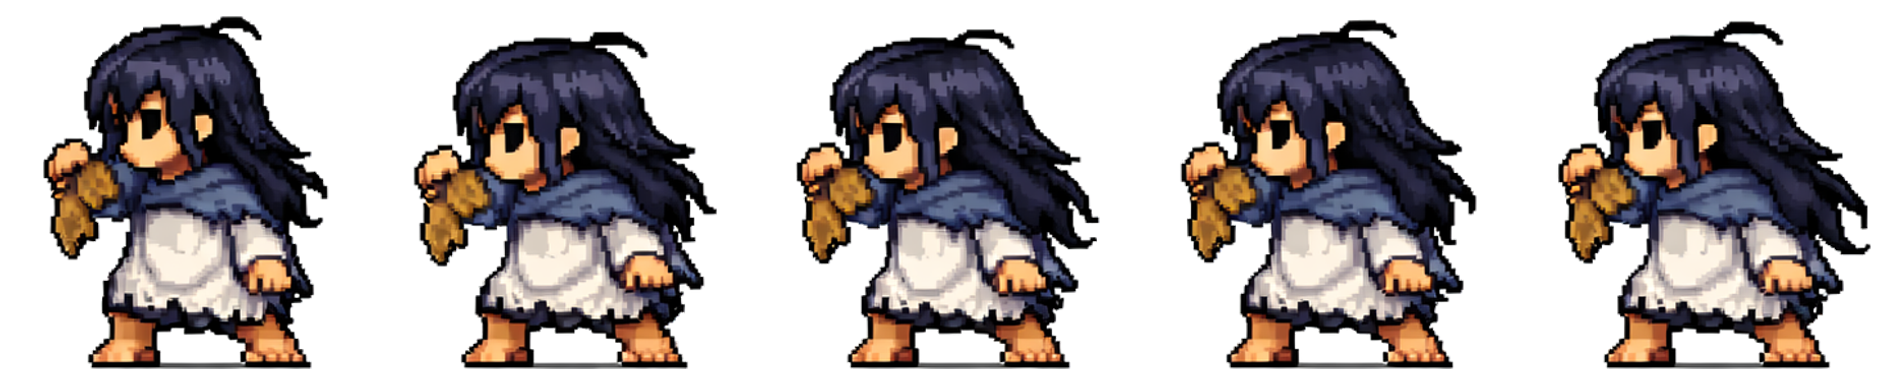
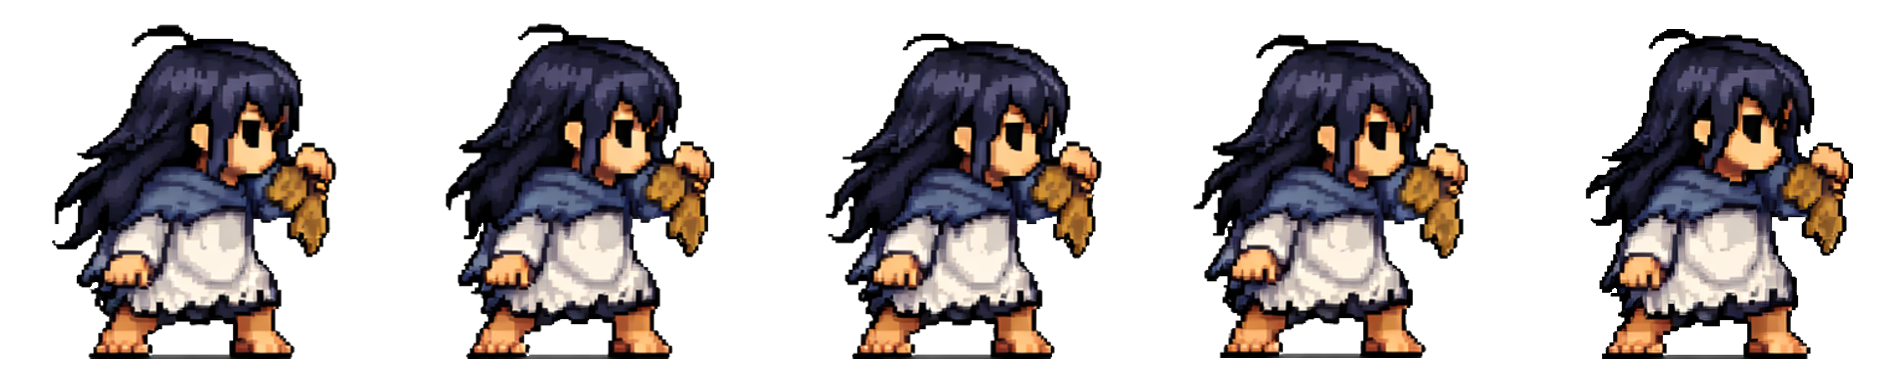
new anims scale fixes

diff --git a/src/battle/components/BattleCharacter.js b/src/battle/components/BattleCharacter.js
@@ -51,10 +51,6 @@ function BattleSprite(props) {
     var PUB = process.env.PUBLIC_URL || "";
     var src = PUB + cfg.sheet;
     var size = LAYOUT.spriteSize;
-    var xform = [];
-    if (cfg.flipX) xform.push("scaleX(-1)");
-    if (cfg.scale && cfg.scale !== 1) xform.push("scale(" + cfg.scale + ")");
-    var transform = xform.length ? xform.join(" ") : undefined;
 
     // Static image (single frame only)
     if (cfg.frames <= 1) {
@@ -66,7 +62,6 @@ function BattleSprite(props) {
                 backgroundRepeat: "no-repeat",
                 backgroundPosition: "center",
                 imageRendering: "auto",
-                transform: transform,
             }} />
         );
     }
@@ -89,7 +84,6 @@ function BattleSprite(props) {
             backgroundRepeat: "no-repeat",
             backgroundSize: (cols * 100) + "% " + (totalRows * 100) + "%",
             imageRendering: "auto",
-            transform: transform,
         }} />
     );
 }
@@ -281,7 +275,16 @@ function BattleCharacter(props) {
         prevTurnOwnerRef.current = showTurnOwner;
     }, [showTurnOwner]);
 
+    var isKO = c.ko || (c.currentHP != null && c.currentHP <= 0);
+
+    // Read anim state early — needed for KO class gating and sprite key
+    var myAnim = props.animState && props.animState[c.id];
+
     var cls = "normal-cam-char";
+    // Only apply persistent hide when choreo ko animation is NOT playing.
+    // During the death anim, choreo--ko handles the fade. After it clears,
+    // this class keeps the character hidden on subsequent re-renders.
+    if (isKO && myAnim !== "ko") cls += " normal-cam-char--ko";
     if (isParty) cls += " normal-cam-char--party";
     if (!isParty) cls += " normal-cam-char--enemy-idle";
     if (isDimmed) cls += " action-cam-char--dimmed";
@@ -331,17 +334,28 @@ function BattleCharacter(props) {
     // --- CHOREO layer: lunge/knockback/dodge transforms ---
     var choreoCls = "normal-cam-char__choreo";
     if (props.flashId === c.id) choreoCls += " normal-cam-char__choreo--flash";
-    var myAnim = props.animState && props.animState[c.id];
+    // myAnim already computed above (needed for KO class gating)
     if (myAnim) {
         choreoCls += " normal-cam-char__choreo--" + myAnim;
     }
     var choreoStyle = { "--choreo-dir": isParty ? "1" : "-1" };
 
+    // --- Scale/flip on __visual layer (not sprite — enemy bob overwrites sprite transforms) ---
+    var activeSpriteKey = (myAnim === "strike" || myAnim === "wind_up") && c.attackSpriteKey
+        ? c.attackSpriteKey : c.spriteKey;
+    var spriteCfg = BATTLE_SPRITES[activeSpriteKey];
+    var visualXform = [];
+    if (spriteCfg && spriteCfg.flipX) visualXform.push("scaleX(-1)");
+    if (spriteCfg && spriteCfg.scale && spriteCfg.scale !== 1) visualXform.push("scale(" + spriteCfg.scale + ")");
+    var visualStyle = { position: "relative" };
+    if (visualXform.length) visualStyle.transform = visualXform.join(" ");
+
     // Click handler — stopPropagation so stage background tap can deselect
     var handleClick = useCallback(function(e) {
         e.stopPropagation();
+        if (isKO) return; // Dead characters are not interactive
         if (props.onClick) props.onClick();
-    }, [props.onClick]);
+    }, [props.onClick, isKO]);
 
     return (
         <div
@@ -351,7 +365,7 @@ function BattleCharacter(props) {
             onClick={handleClick}
         >
             <div className={choreoCls} style={choreoStyle}>
-                <div className="normal-cam-char__visual" style={{ position: "relative" }}>
+                <div className="normal-cam-char__visual" style={visualStyle}>
                     <SelectionBrackets
                         spriteRef={spriteElRef}
                         color={showSelected ? "#4ade80" : "#f0e6c8"}
@@ -364,10 +378,7 @@ function BattleCharacter(props) {
                             color={isParty ? "#f0e6c8" : "#fb923c"}
                         />
                     )}
-                    <BattleSprite spriteKey={
-                        (myAnim === "strike" || myAnim === "wind_up") && c.attackSpriteKey
-                            ? c.attackSpriteKey : c.spriteKey
-                    } frame={
+                    <BattleSprite spriteKey={activeSpriteKey} frame={
                         (myAnim === "strike") && c.attackSpriteKey ? 1
                             : (myAnim === "wind_up") && c.attackSpriteKey ? 0
                                 : null

diff --git a/src/battle/BattleView.js b/src/battle/BattleView.js
@@ -605,6 +605,7 @@ function BattleView(props) {
     // ============================================================
     function handleStartBattle() {
         if (phase !== PHASES.INTRO) return;
+        BattleSFX.select();
         director.start();
     }
 
@@ -853,6 +854,7 @@ function BattleView(props) {
     }
 
     function handleChainSkillSelect(skillId) {
+        BattleSFX.select();
         // Same skill tapped again — confirm
         if (chainSelectedSkillRef.current === skillId) {
             handleChainSkillConfirm(skillId);
@@ -863,6 +865,7 @@ function BattleView(props) {
     }
 
     function handleChainSkillConfirm(skillId) {
+        BattleSFX.select();
         var sid = skillId || chainSelectedSkillRef.current;
         if (!sid) return;
         chainSelectedSkillRef.current = null;
@@ -871,6 +874,7 @@ function BattleView(props) {
     }
 
     function handleChainSkillClose() {
+        BattleSFX.select();
         setChainSkillMenuOpen(false);
         chainSelectedSkillRef.current = null;
     }
@@ -883,10 +887,12 @@ function BattleView(props) {
     // RESULTS — Continue button exits battle
     // ============================================================
     function handleResultsContinue() {
+        BattleSFX.select();
         if (onExit) onExit(battleResult);
     }
 
     function handleAction(actionId) {
+        BattleSFX.select();
         var userId = activeAtkId;
 
         if (actionId === "attack") {
@@ -928,6 +934,7 @@ function BattleView(props) {
     // resolution, then signals Director that item was used.
     // ============================================================
     function handleItemUse(itemId) {
+        BattleSFX.select();
         var userId = activeAtkId;
         if (!userId) return;
 
@@ -978,6 +985,7 @@ function BattleView(props) {
     }
 
     function handleItemClose() {
+        BattleSFX.select();
         setItemMenuOpen(false);
         // Signal Director — item cancelled
         director.onPlayerItemUsed(false);
@@ -1016,6 +1024,7 @@ function BattleView(props) {
 
     // Player confirms attack after selecting skill + target
     function handleSkillConfirm() {
+        BattleSFX.select();
         var skillId = selectedSkillRef.current;
         if (!skillId) return;
 
@@ -1028,6 +1037,7 @@ function BattleView(props) {
     }
 
     function handleSkillClose() {
+        BattleSFX.select();
         setSkillMenuOpen(false);
         selectedSkillRef.current = null;
     }

diff --git a/src/battle/managers/battleDirector.js b/src/battle/managers/battleDirector.js
@@ -487,9 +487,22 @@ function createBattleDirector(bridge, config) {
                     var skill = BattleSkills.getSkill(action.skillId);
                     if (!skill) return;
 
-                    // Target alive gate (after first action)
+                    // Alive gate (after first action) — check BOTH swinger and target
                     if (actionIndex > 0) {
                         seq.enqueue(function(d) {
+                            // Swinger died (e.g. from player counter) — bail
+                            var swinger = bState.get(id);
+                            if (!swinger || swinger.ko) {
+                                console.log("[Cam] ENEMY CHAIN — swinger dead after action", actionIndex, ", bailing");
+                                seq.clear();
+                                enqueueCamOut();
+                                seq.enqueue(function(dd) {
+                                    setTimeout(dd, DIRECTOR_TIMING.breathingPauseMs);
+                                });
+                                seq.enqueue(function(dd) { advanceToNextTurn(); dd(); });
+                                d();
+                                return;
+                            }
                             var tgt = bState.get(targetId);
                             if (!tgt || tgt.ko) {
                                 console.log("[Cam] ENEMY CHAIN — target dead after action", actionIndex, ", bailing");
@@ -1081,9 +1094,13 @@ function createBattleDirector(bridge, config) {
             done();
         });
 
-        // Reroll initiative
+        // Reroll initiative — exclude KO'd party members
         seq.enqueue(function(done) {
-            var allCombatants = party.concat(currentEnemies);
+            var livingParty = party.filter(function(p) {
+                var s = bState.get(p.id);
+                return s && !s.ko;
+            });
+            var allCombatants = livingParty.concat(currentEnemies);
             turnOrder = BattleEngagement.rollInitiative(
                 allCombatants, ENGAGEMENT.INITIATIVE_VARIANCE
             );

diff --git a/src/battle/BattleView.css b/src/battle/BattleView.css
@@ -350,6 +350,16 @@
             koDissolve 250ms steps(4) 350ms forwards;
 }
 
+/* Persistent KO state — applied via data, survives re-renders.
+   The choreo--ko animation plays the death sequence once.
+   This class ensures dead characters stay hidden afterward
+   and on wave transitions where choreo state is cleared. */
+.normal-cam-char--ko {
+    opacity: 0;
+    pointer-events: none;
+    transition: none;
+}
+
 /* Enemy idle bob — subtle stepped motion on sprite only */
 @keyframes enemyBob {
     0%, 50%  { transform: translateY(0); }

diff --git a/src/battle/battleState.js b/src/battle/battleState.js
@@ -101,6 +101,7 @@ function createBattleState(partyArray, enemyArray) {
             // Identity (immutable during battle)
             id:            cfg.id,
             name:          cfg.name,
+            spriteKey:       cfg.spriteKey || null,
             attackSpriteKey: cfg.attackSpriteKey || null,
             isParty:       isParty,
 

diff --git a/src/battle/config/battleConstants.js b/src/battle/config/battleConstants.js
@@ -140,6 +140,7 @@ var BATTLE_SPRITES = {
         frameH:   380,
         fps:      1.0,
         cols:     5,
+        flipX:    true,
     },
     fairyCombatKnockdown: {
         sheet:    "/images/anim/battle/npc/waFairyKnockdownSS.png",

diff --git a/src/config/buildInfo.js b/src/config/buildInfo.js
@@ -1,5 +1,5 @@
 var BUILD_INFO = {
-    version: "2.81.00",
+    version: "2.82.00",
     env: "dev",
 };
 
